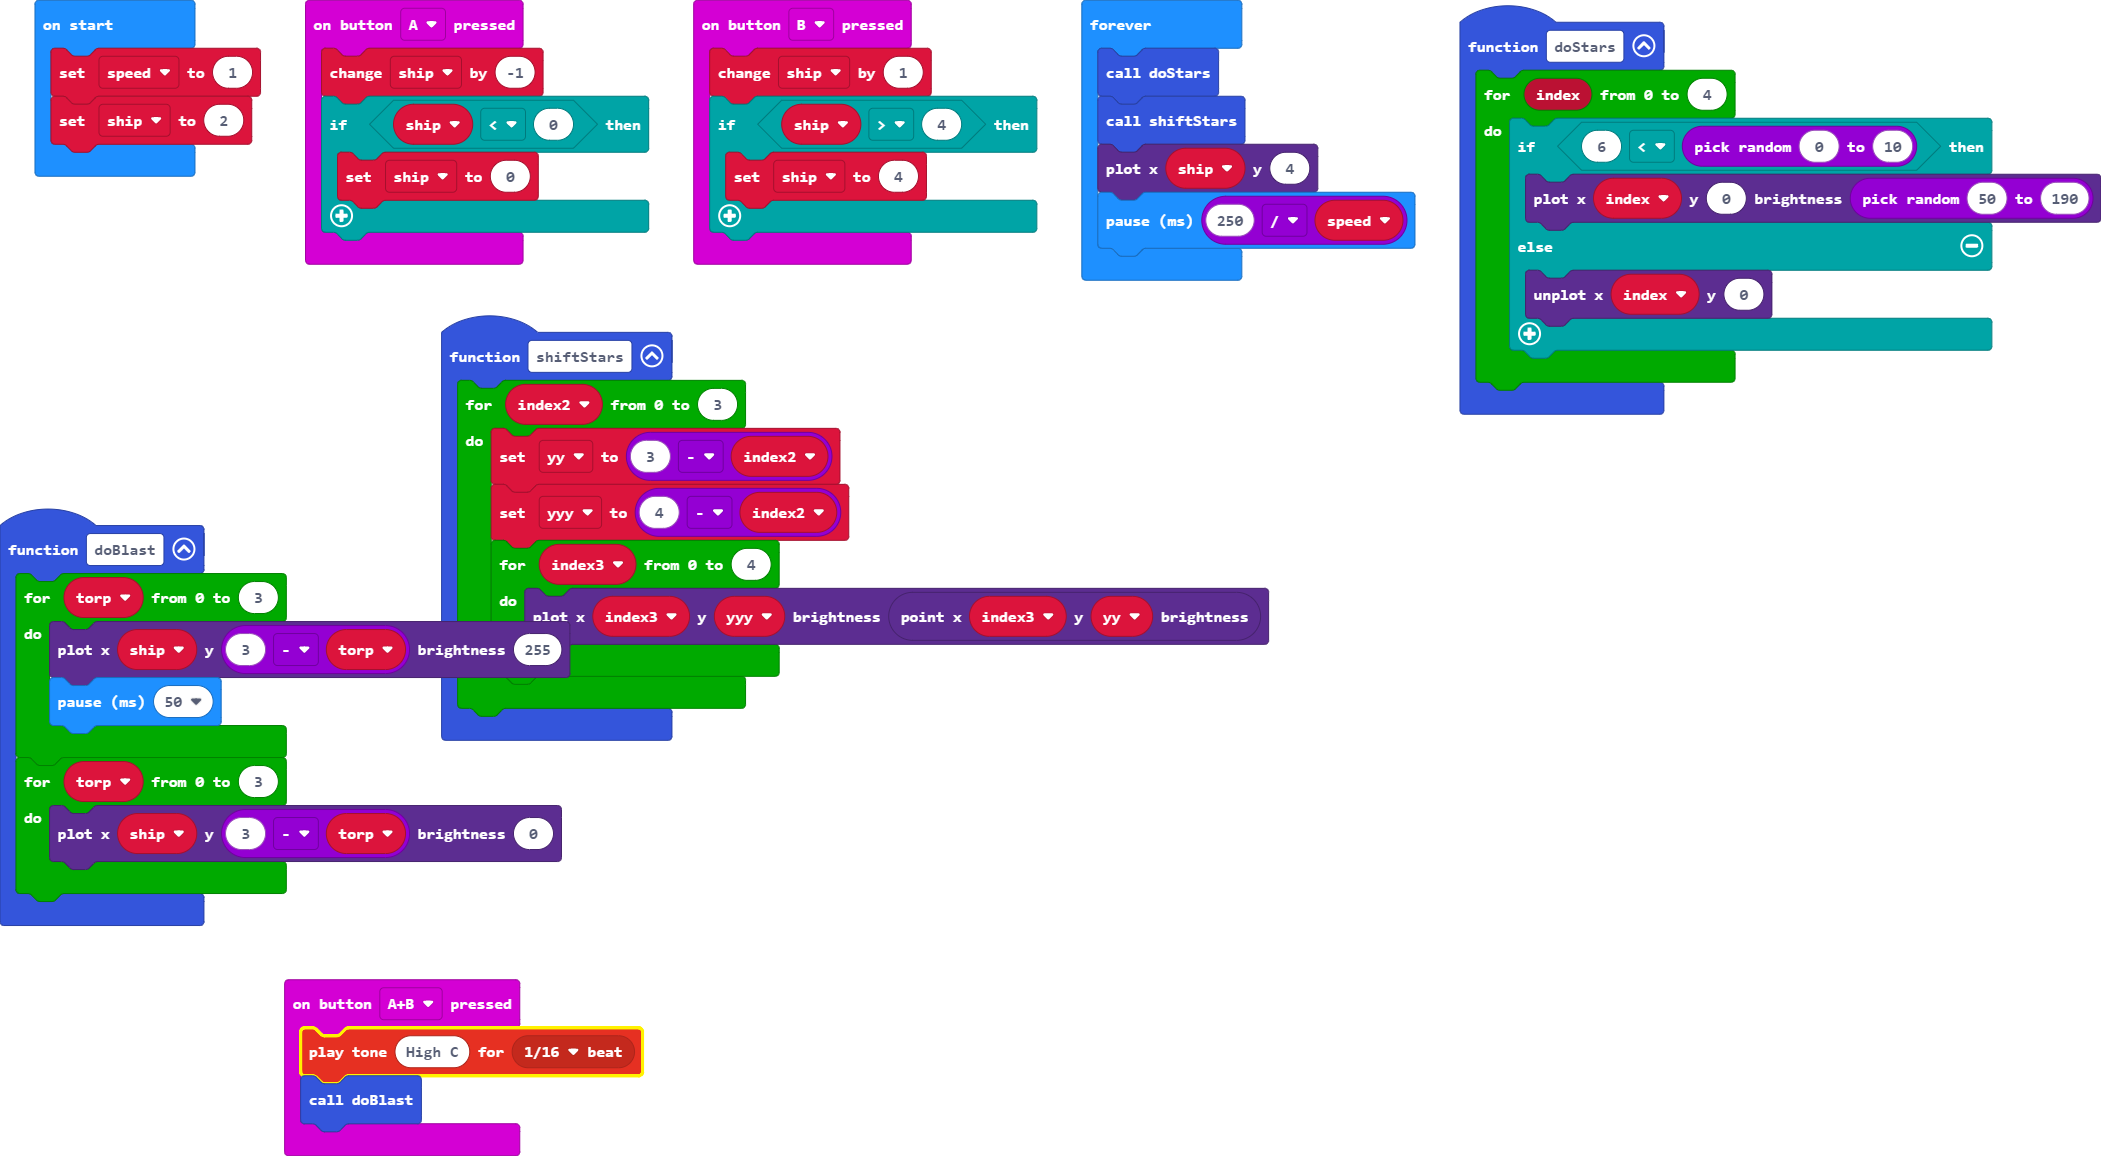
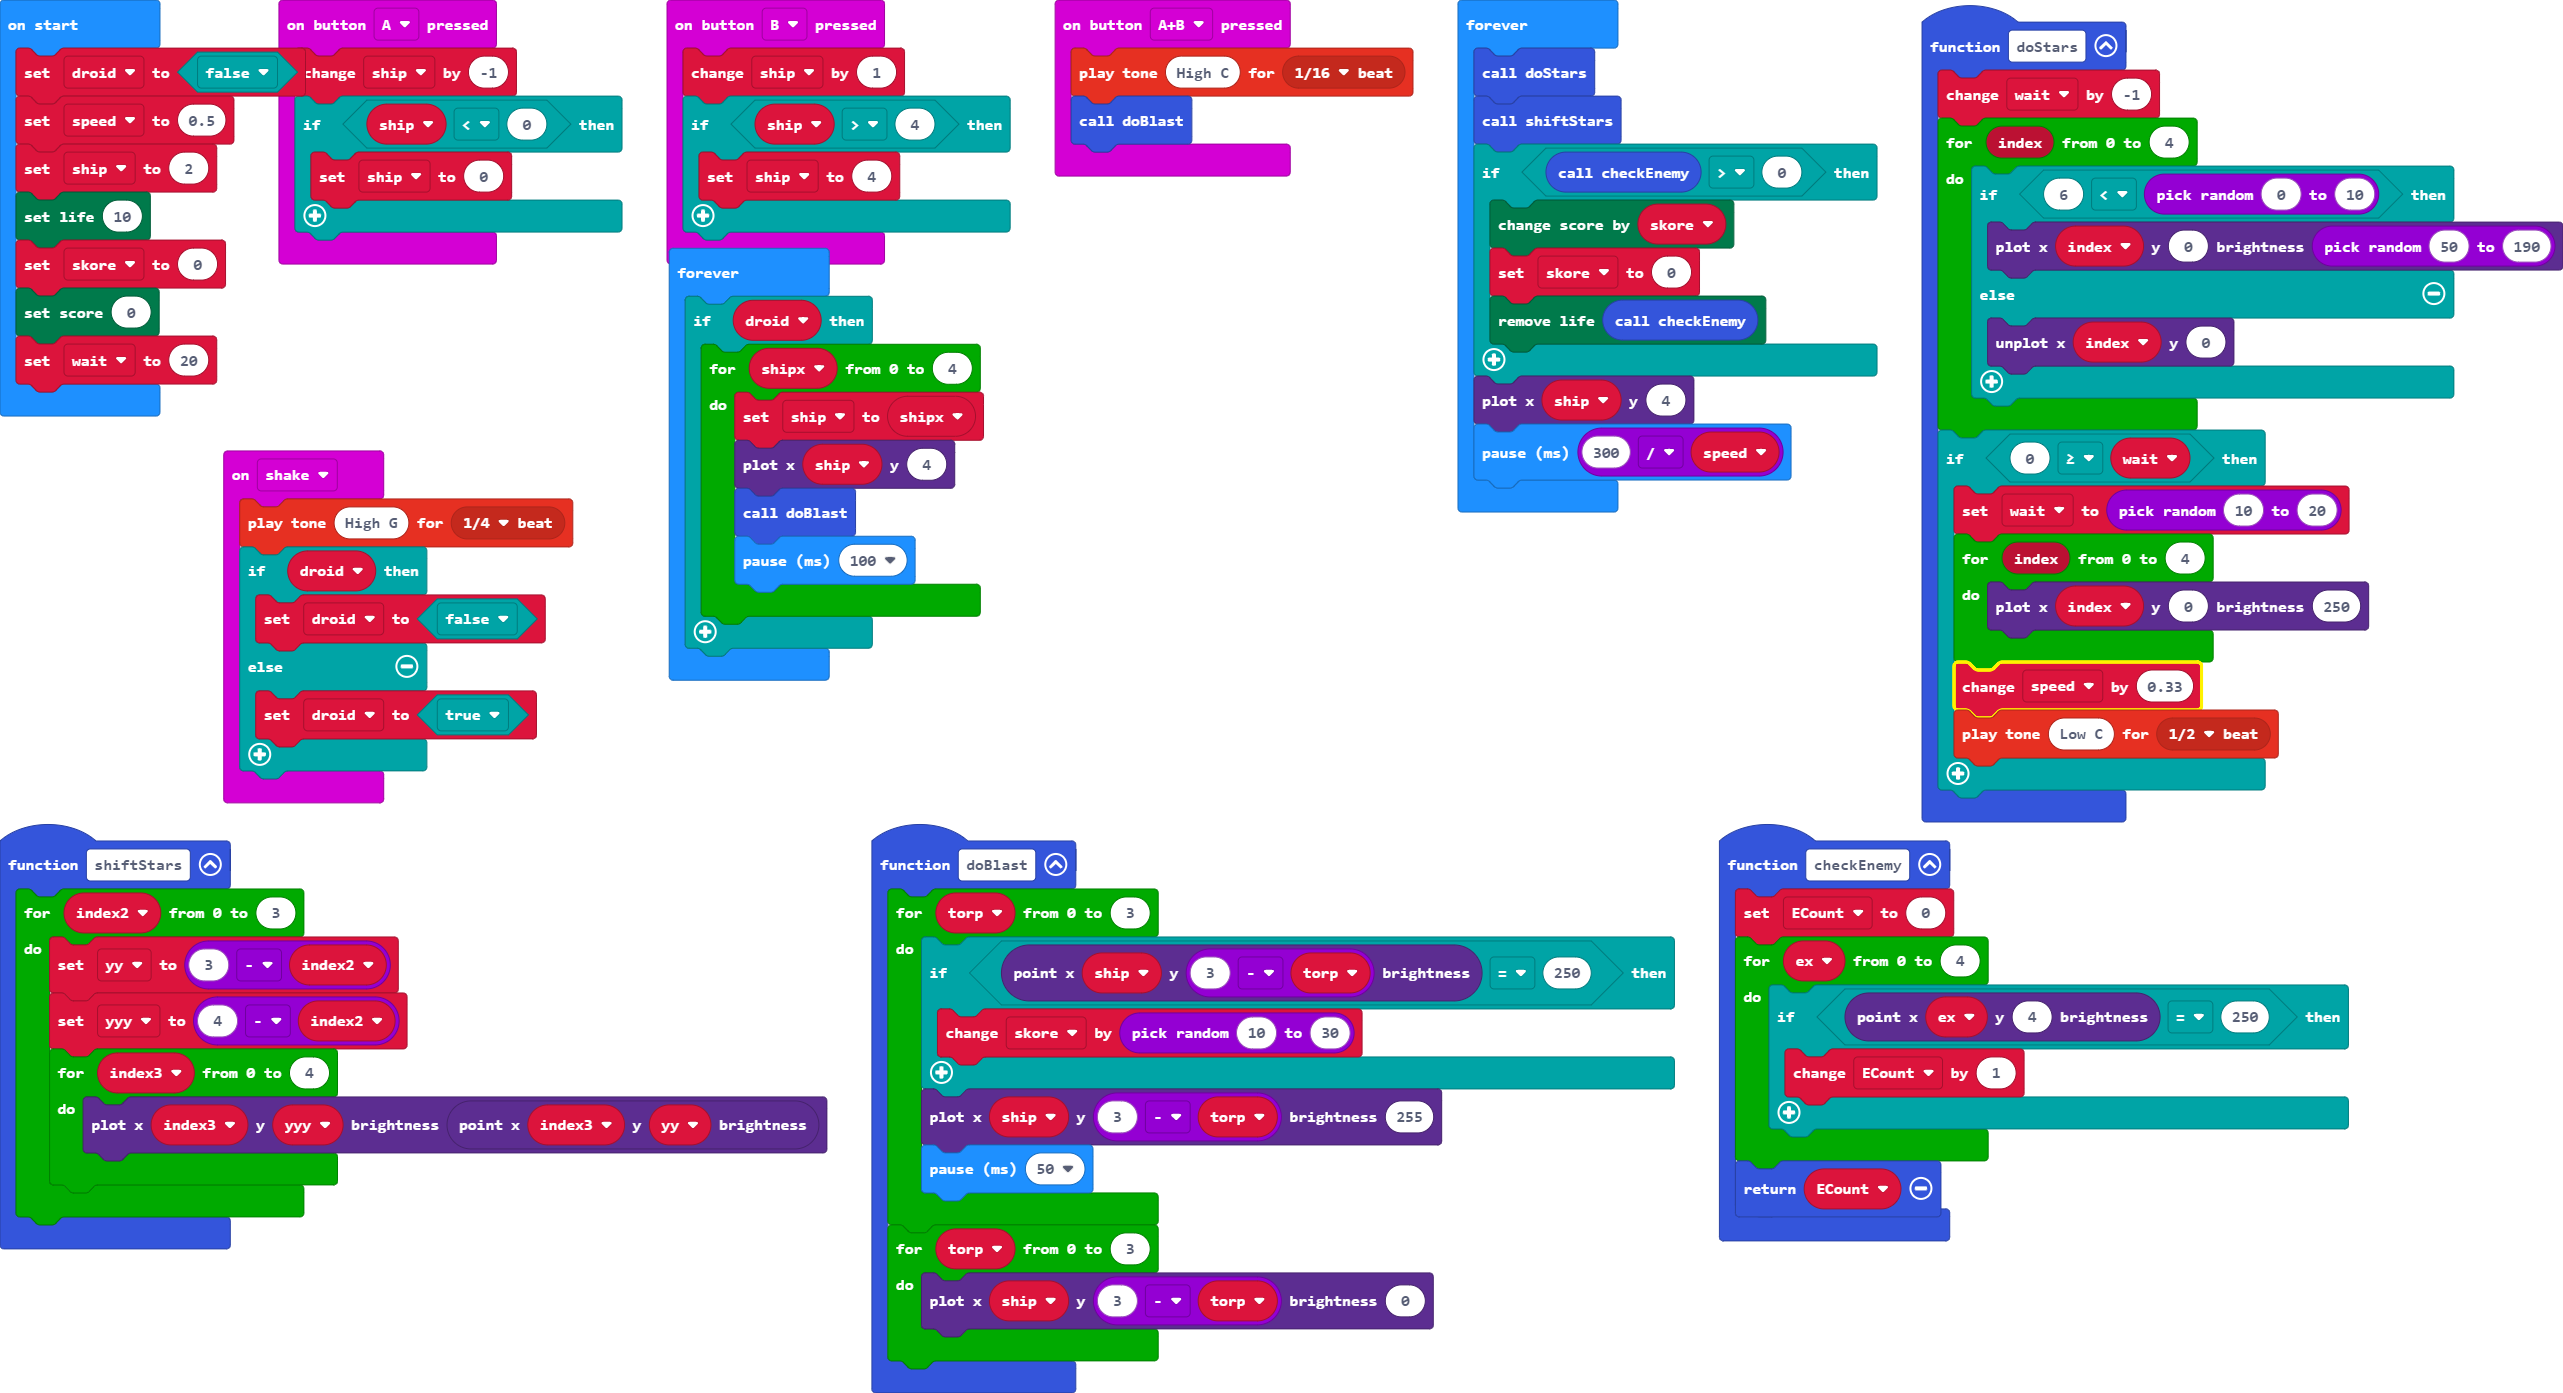
Update main.blocks, main.ts

diff --git a/main.ts b/main.ts
@@ -14,6 +14,7 @@ function shiftStars () {
     }
 }
 function doStars () {
+    wait += -1
     for (let index = 0; index <= 4; index++) {
         if (6 < randint(0, 10)) {
             led.plotBrightness(index, 0, randint(50, 190))
@@ -21,9 +22,29 @@ function doStars () {
             led.unplot(index, 0)
         }
     }
+    if (0 >= wait) {
+        wait = randint(10, 20)
+        for (let index = 0; index <= 4; index++) {
+            led.plotBrightness(index, 0, 250)
+        }
+        speed += 0.33
+        music.playTone(131, music.beat(BeatFraction.Half))
+    }
+}
+function checkEnemy () {
+    ECount = 0
+    for (let ex = 0; ex <= 4; ex++) {
+        if (led.pointBrightness(ex, 4) == 250) {
+            ECount += 1
+        }
+    }
+    return ECount
 }
 function doBlast () {
     for (let torp = 0; torp <= 3; torp++) {
+        if (led.pointBrightness(ship, 3 - torp) == 250) {
+            skore += randint(10, 30)
+        }
         led.plotBrightness(ship, 3 - torp, 255)
         basic.pause(50)
     }
@@ -41,14 +62,45 @@ input.onButtonPressed(Button.B, function () {
         ship = 4
     }
 })
+input.onGesture(Gesture.Shake, function () {
+    music.playTone(784, music.beat(BeatFraction.Quarter))
+    if (droid) {
+        droid = false
+    } else {
+        droid = true
+    }
+})
+let ECount = 0
 let yyy = 0
 let yy = 0
+let wait = 0
 let ship = 0
-let speed = 1
+let droid = false
+droid = false
+let speed = 0.5
 ship = 2
+game.setLife(10)
+let skore = 0
+game.setScore(0)
+wait = 20
 basic.forever(function () {
     doStars()
     shiftStars()
+    if (checkEnemy() > 0) {
+        game.addScore(skore)
+        skore = 0
+        game.removeLife(checkEnemy())
+    }
     led.plot(ship, 4)
-    basic.pause(250 / speed)
+    basic.pause(300 / speed)
+})
+basic.forever(function () {
+    if (droid) {
+        for (let shipx = 0; shipx <= 4; shipx++) {
+            ship = shipx
+            led.plot(ship, 4)
+            doBlast()
+            basic.pause(100)
+        }
+    }
 })
